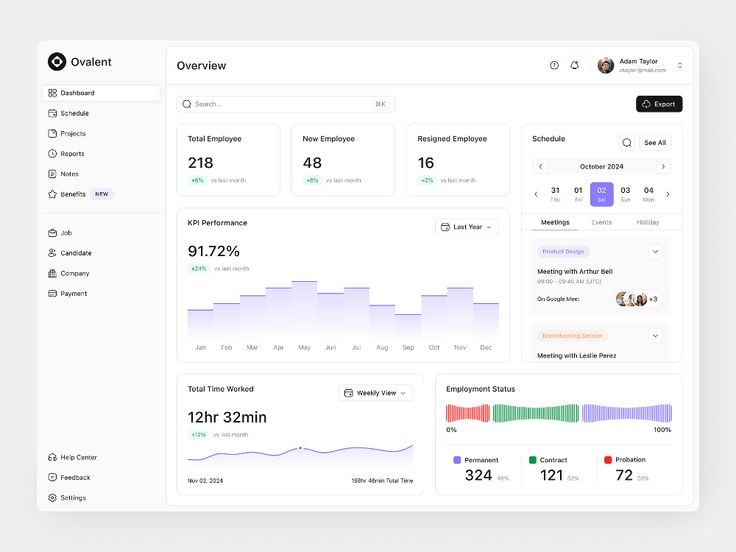
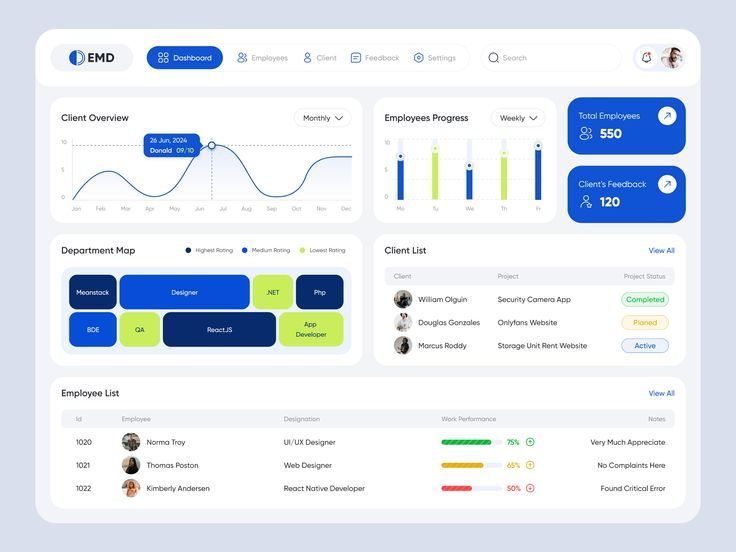
size changes

diff --git a/src/components/Aboutsection.tsx b/src/components/Aboutsection.tsx
@@ -13,7 +13,7 @@ const AboutUs = () => {
         <div className="flex flex-col md:flex-row items-center gap-15">
           <div className="w-full text-center md:text-left md:w-1/2">
             <p className="text-blue-700 font-bold text-base sm:text-sm mb-4">About Us</p>
-            <h4 className="text-2xl sm:text-md md:text-2xl font-bold text-black mb-6 leading-snug">
+            <h4 className="text-xl sm:text-md md:text-3xl font-bold text-black mb-6 leading-snug">
               Ufirm, founded in 2016 as part of the Royal Nest Group, aims to elevate India’s real estate services. With over 25 years of legacy and 8 million sq. ft. of delivered projects, we offer proven expertise and a commitment to excellence.
             </h4>
             <p className="text-grey-900 text-base sm:text-sm leading-relaxed mb-8">
